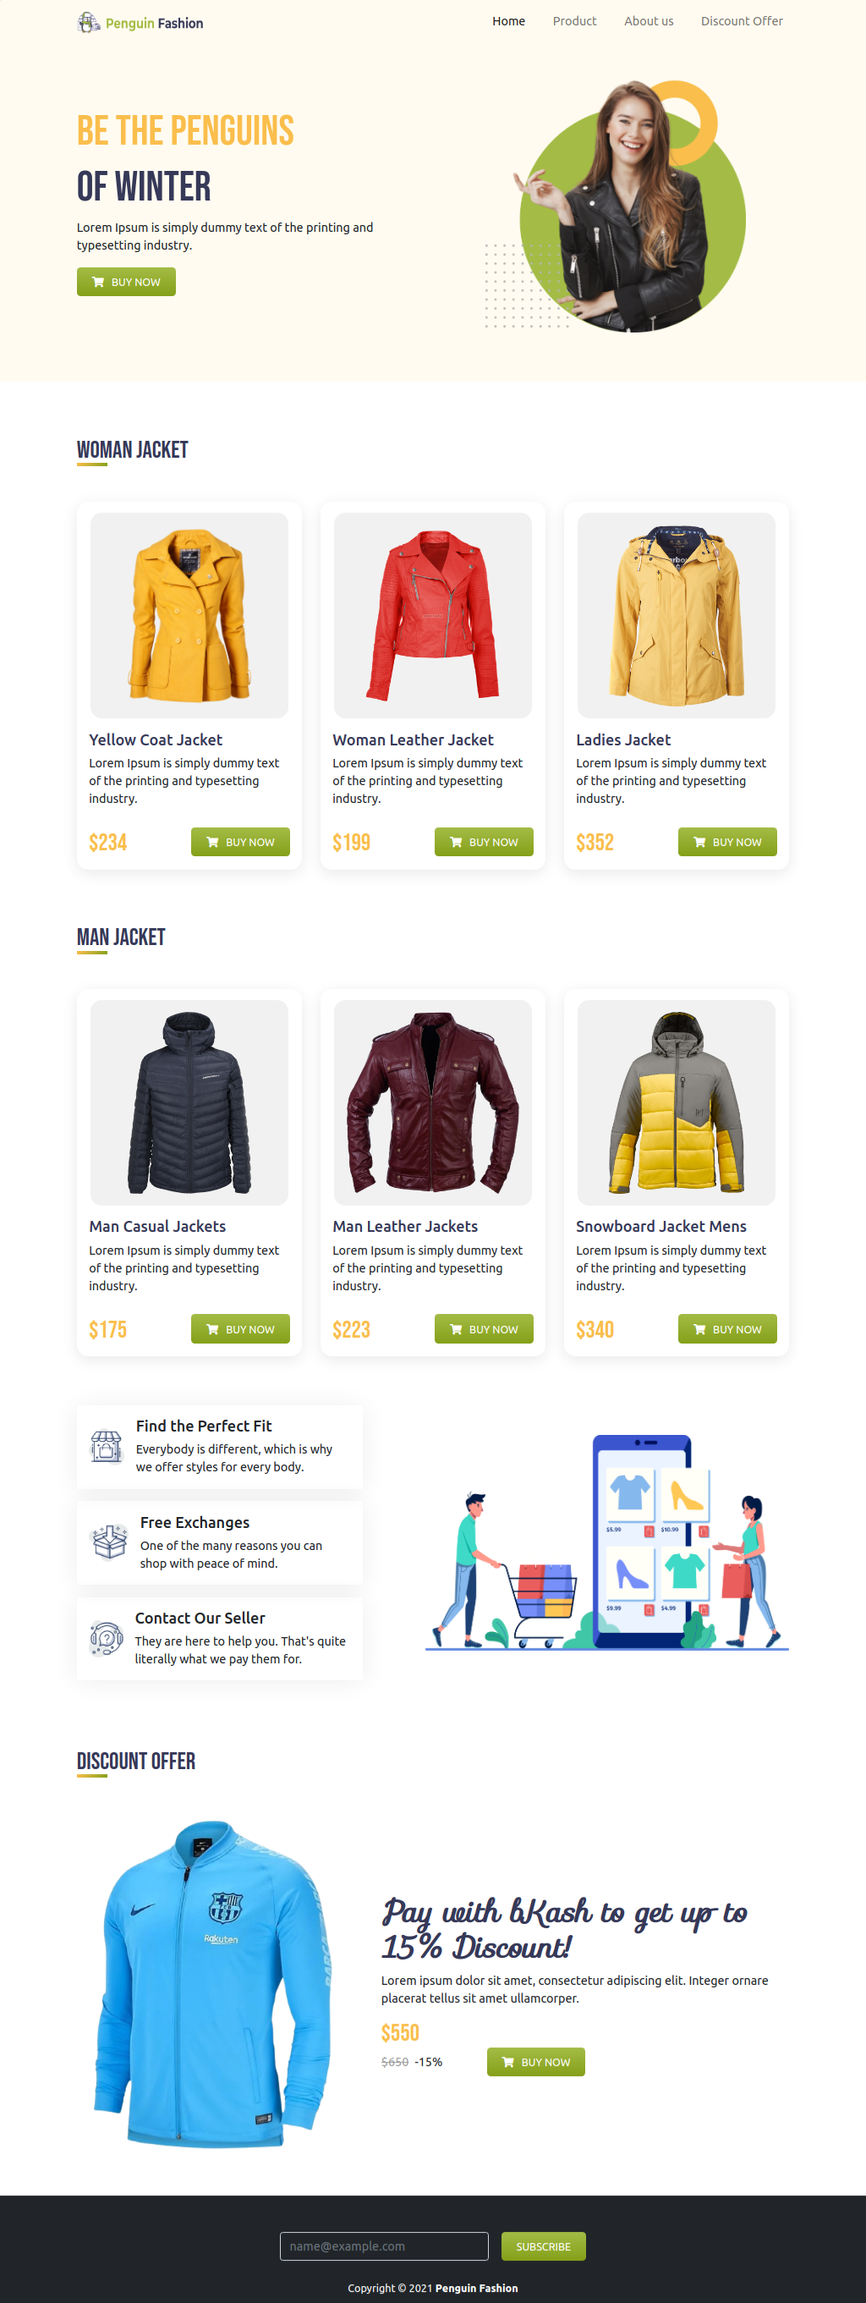
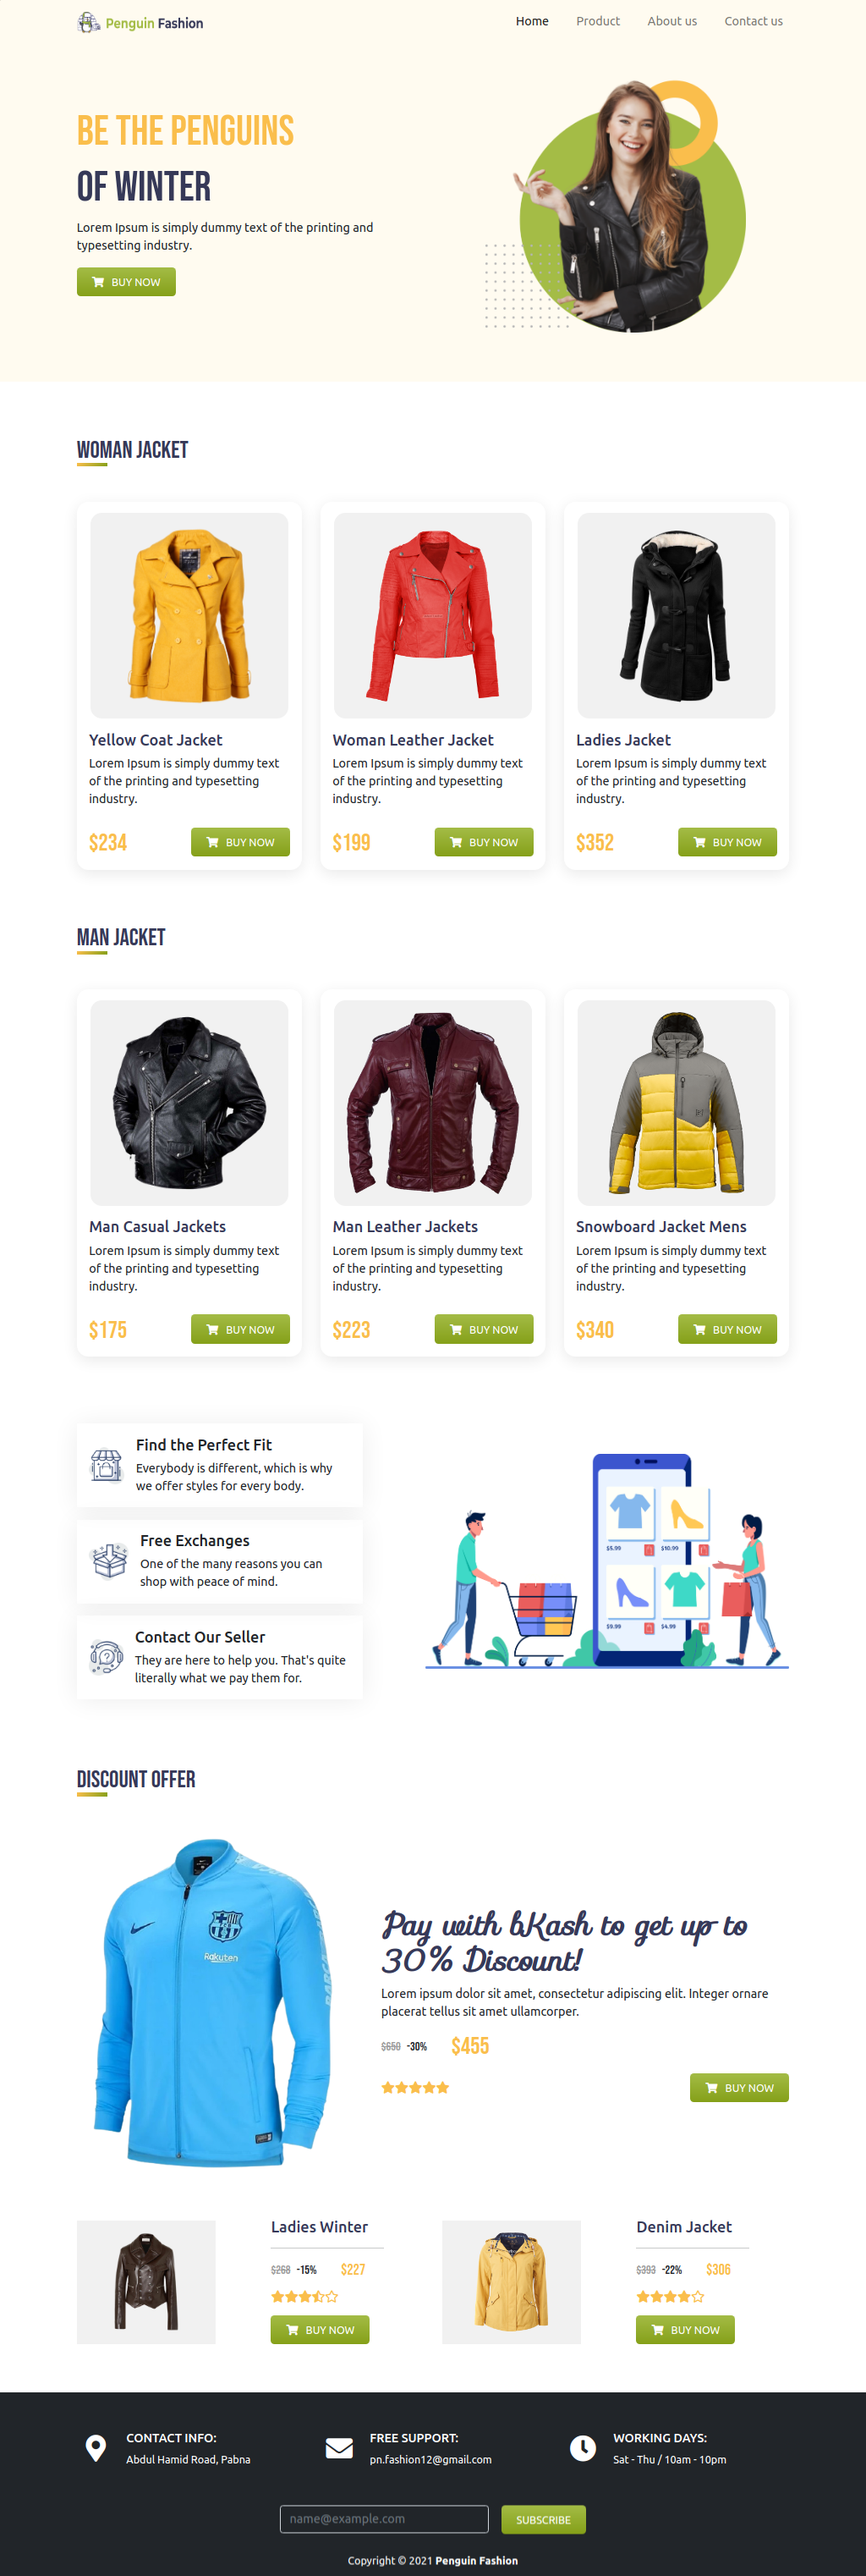
everything is ok

Changed region(s): [[0.0, 0.0, 1.0, 0.9993], [0.5938, 0.0, 0.875, 0.1561]]

diff --git a/index.html b/index.html
@@ -63,6 +63,7 @@
         </div>
       </nav>
     </header>
+
     <main>
       <!-- Penguin Home -->
       <section class="penguin-home bg-light-color pb-5">
@@ -85,6 +86,7 @@
           </div>
         </div>
       </section>
+
       <!-- Woman Jacket -->
       <section class="jacket-product container pt-5" id="product">
         <h2 class="text-title mb-5 pt-4">WoMan Jacket</h2>
@@ -163,6 +165,7 @@
           </div>
         </div>
       </section>
+
       <!-- Man Jacket -->
       <section class="jacket-product container mb-4 pt-5">
         <h2 class="text-title mb-5 pt-4">Man Jacket</h2>
@@ -241,6 +244,7 @@
           </div>
         </div>
       </section>
+
       <!-- Shop Information -->
       <section class="shop-info container pt-5" id="shop-info">
         <div
@@ -298,6 +302,7 @@
           </div>
         </div>
       </section>
+
       <!-- Discount Offer -->
       <section class="discount-offer pt-5" id="discount-offer">
         <div class="container">
@@ -307,17 +312,17 @@
               <img src="images/jacket-light-blue.png" alt="jacket-light-blue" />
             </div>
             <div class="col-md-7">
-              <h1>Pay with bKash to get up to 15% Discount!</h1>
+              <h1>Pay with bKash to get up to 30% Discount!</h1>
               <p>
                 Lorem ipsum dolor sit amet, consectetur adipiscing elit. Integer
                 ornare placerat tellus sit amet ullamcorper.
               </p>
-              <div class="price d-flex align-items-center mb-3">
+              <div class="d-flex align-items-center mb-3">
                 <div class="d-flex align-items-center">
-                  <p class="origin-price mb-0">$650</p>
-                  <span class="mx-2">-15%</span>
+                  <p class="origin-price price mb-0">$650</p>
+                  <span class="price mx-2">-30%</span>
                 </div>
-                <h2 class="highlight mx-4 mb-0">$550</h2>
+                <h2 class="highlight price mx-4 mb-0">$455</h2>
               </div>
               <div
                 class="discount-btn-info d-flex align-items-center justify-content-between"
@@ -335,9 +340,77 @@
               </div>
             </div>
           </div>
+          <!-- Others Offer -->
+          <div class="row mt-4">
+            <div class="col-md-6 d-flex align-items-center my-3">
+              <div class="offer-img d-flex justify-content-center">
+                <img
+                  class="p-3"
+                  src="images/woman-jacket-4.png"
+                  alt="woman-jacket-4"
+                />
+              </div>
+              <div class="offer-content mb-0">
+                <h5 class="offer-title">Ladies Winter</h5>
+                <hr />
+                <div class="d-flex align-items-center mb-3">
+                  <div class="d-flex align-items-center">
+                    <p class="origin-price price mb-0">$268</p>
+                    <span class="price mx-2">-15%</span>
+                  </div>
+                  <h5 class="highlight price mx-4 mb-0">$227</h5>
+                </div>
+                <div class="discount-btn-info">
+                  <div class="highlight d-flex align-items-center">
+                    <i class="fas fa-star"></i>
+                    <i class="fas fa-star"></i>
+                    <i class="fas fa-star"></i>
+                    <i class="fas fa-star-half-alt"></i>
+                    <i class="far fa-star"></i>
+                  </div>
+                  <a class="btn custom-btn text-uppercase mt-3" href="#"
+                    ><i class="fas fa-shopping-cart"></i>Buy Now</a
+                  >
+                </div>
+              </div>
+            </div>
+            <div class="col-md-6 d-flex align-items-center my-3">
+              <div class="offer-img d-flex justify-content-center">
+                <img
+                  class="p-3"
+                  src="images/woman-jacket-5.png"
+                  alt="woman-jacket-4"
+                />
+              </div>
+              <div class="offer-content mb-0">
+                <h5 class="offer-title">Denim Jacket</h5>
+                <hr />
+                <div class="d-flex align-items-center mb-3">
+                  <div class="d-flex align-items-center">
+                    <p class="origin-price price mb-0">$393</p>
+                    <span class="price mx-2">-22%</span>
+                  </div>
+                  <h5 class="highlight price mx-4 mb-0">$306</h5>
+                </div>
+                <div class="discount-btn-info">
+                  <div class="highlight d-flex align-items-center">
+                    <i class="fas fa-star"></i>
+                    <i class="fas fa-star"></i>
+                    <i class="fas fa-star"></i>
+                    <i class="fas fa-star"></i>
+                    <i class="far fa-star"></i>
+                  </div>
+                  <a class="btn custom-btn text-uppercase mt-3" href="#"
+                    ><i class="fas fa-shopping-cart"></i>Buy Now</a
+                  >
+                </div>
+              </div>
+            </div>
+          </div>
         </div>
       </section>
     </main>
+
     <!-- Footer -->
     <footer class="bg-dark mt-5 pt-5">
       <div class="container">

diff --git a/css/style.css b/css/style.css
@@ -46,6 +46,9 @@ img {
 .card-title {
   color: #363958;
 }
+.price {
+  font-family: "Bebas Neue", cursive;
+}
 .origin-price {
   color: #9e9e9e;
   text-decoration: line-through;
@@ -118,6 +121,29 @@ img {
   font-style: italic;
   font-weight: 700;
 }
+.offer-img {
+  height: 162px;
+  background-color: #f1f1f1;
+  width: 40%;
+  margin-top: 15px;
+  margin-left: 0;
+  margin-right: 20px;
+  transition: background-color 0.3s ease-in-out;
+}
+.offer-img:hover {
+  background-color: #00000027;
+}
+.offer-img img {
+  max-height: 100%;
+  width: auto;
+  margin-bottom: 0;
+}
+.offer-content {
+  margin: auto;
+}
+.offer-title {
+  color: #363958;
+}
 
 /** -------Footer------- **/
 .contact .icon {
@@ -166,11 +192,6 @@ img {
   .shop-info-img {
     padding-left: 0;
     margin-bottom: 50px;
-  }
-
-  /* Discount Offer */
-  .discount-offer img {
-    margin-bottom: 30px;
   }
 
   /* Footer */
